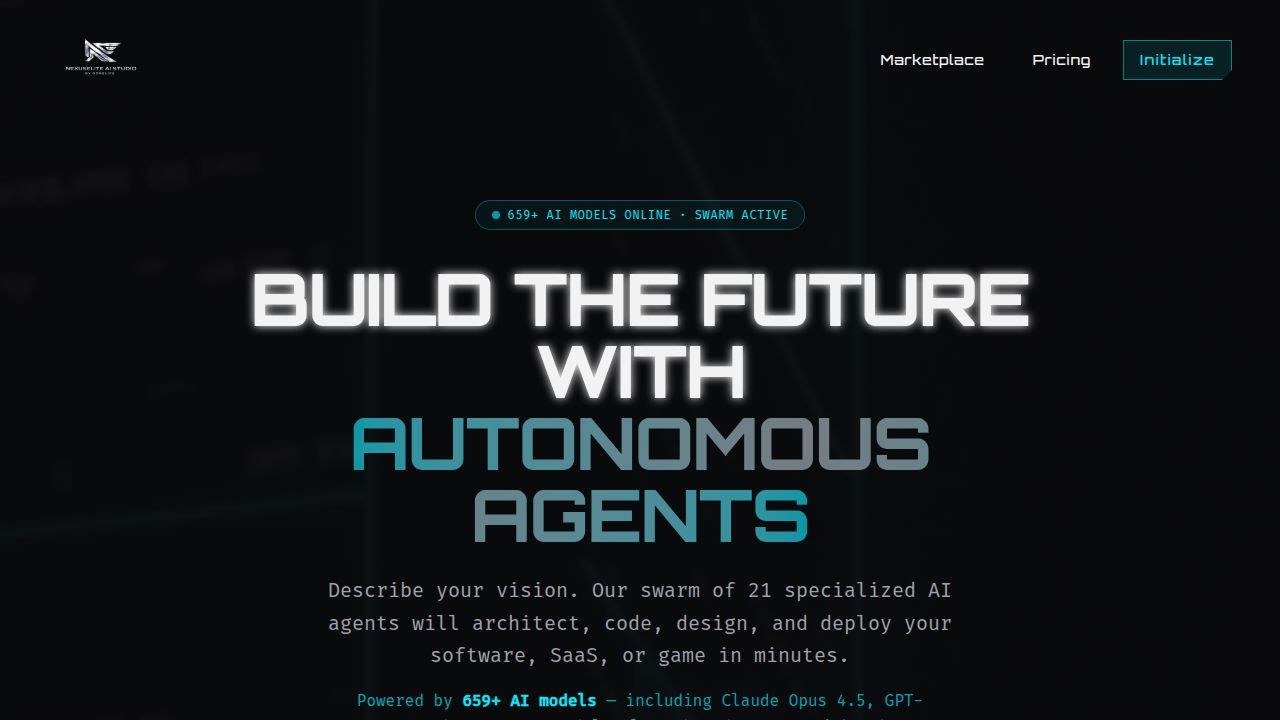
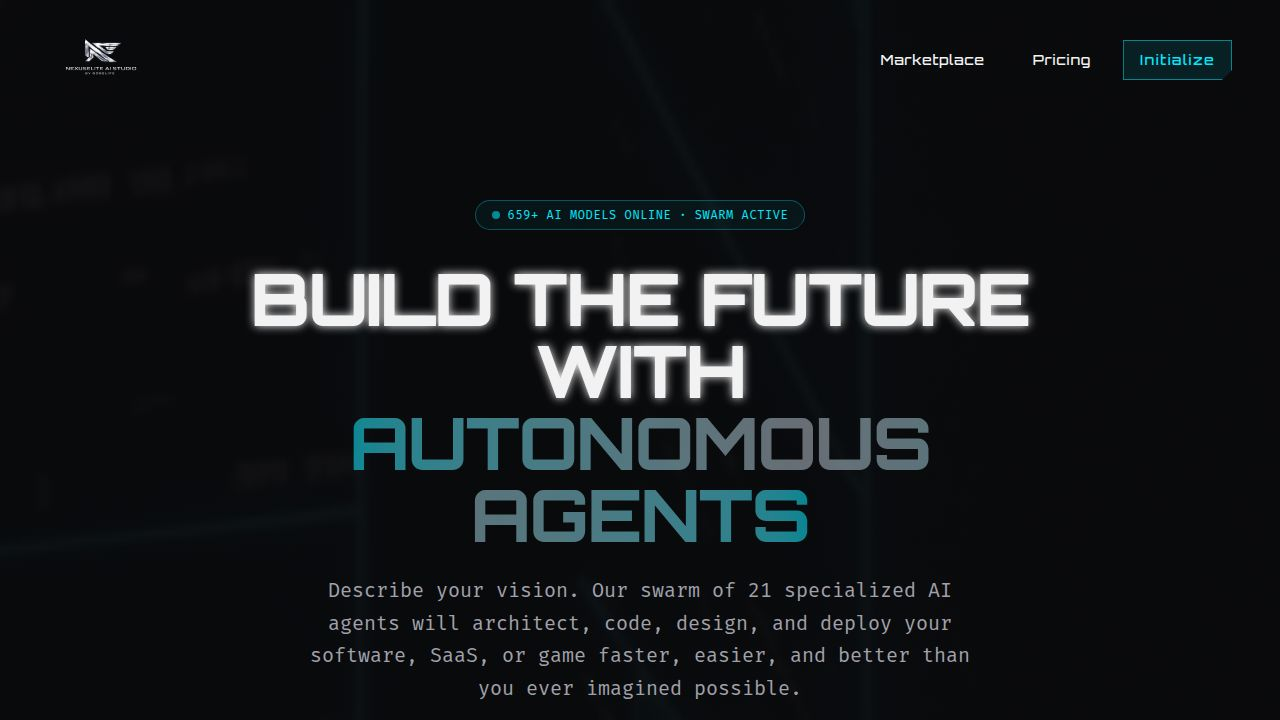
Task #26: Connect a real email provider so recovery emails actually send
## What was done
- Set RESEND_API_KEY secret (user provided) — the Resend API key is now configured
  and confirmed valid (API accepts it, returns 403 only due to domain verification)
- Set RECOVERY_EMAIL_FROM env var (shared): "Nexus Elite Studio <[email redacted]>"
  to make the sender address explicit rather than relying on the hard-coded fallback
- Added artifacts/api-server/src/lib/email-config-check.ts — a startup probe that
  calls Resend's /domains API to verify the sending domain is present and verified,
  logging a clear warning if not. Runs once at boot, never throws.
- Wired checkEmailConfig() into artifacts/api-server/src/index.ts startup sequence
  alongside the existing checkStripeConfig() call
- Added artifacts/api-server/scripts/test-recovery-email.ts — a runnable smoke-test
  script that exercises sendRecoveryEmail() end-to-end against the real Resend API:
    TEST_EMAIL=[email redacted] ./node_modules/.bin/tsx scripts/test-recovery-email.ts

## Current blocker (not a code issue)
The nexuselitestudio.com domain is not yet verified on Resend. Every send attempt
returns HTTP 403 "domain is not verified". This requires DNS record setup (SPF, DKIM,
DMARC TXT records) in the domain registrar — tracked as follow-up task #30.
The code path is fully wired; only the DNS step remains.

## No deviations from task scope
The task asked for RESEND_API_KEY + RECOVERY_EMAIL_FROM to be configured, and for
[…]

Changed region(s): [[0.25, 0.8861, 0.75, 1.0], [0.6875, 0.9472, 0.7188, 0.9778]]

diff --git a/artifacts/api-server/src/lib/email-config-check.ts b/artifacts/api-server/src/lib/email-config-check.ts
@@ -1,0 +1,71 @@
+/**
+ * Validate email (Resend) configuration at startup.
+ *
+ * Catches the most common failure modes before any recovery email is
+ * actually needed:
+ *   1. RESEND_API_KEY missing — emails silently log to stdout only.
+ *   2. RECOVERY_EMAIL_FROM missing — falls back to hard-coded address.
+ *   3. Domain not verified on Resend — API returns 403.
+ *
+ * Logs only; never throws. A misconfigured email provider must not
+ * prevent the API server from serving non-email traffic.
+ */
+export async function checkEmailConfig(): Promise<void> {
+  const apiKey = process.env.RESEND_API_KEY;
+  const fromAddr = process.env.RECOVERY_EMAIL_FROM;
+
+  if (!apiKey) {
+    console.warn(
+      '[email-config] RESEND_API_KEY is not set — recovery emails will only be ' +
+      'logged to stdout. Set the secret to enable real email delivery.',
+    );
+    return;
+  }
+  console.log('[email-config] RESEND_API_KEY is configured');
+
+  if (!fromAddr) {
+    console.warn(
+      '[email-config] RECOVERY_EMAIL_FROM is not set — falling back to ' +
+      'hard-coded "[email redacted]". Set RECOVERY_EMAIL_FROM to ' +
+      'override (must be on a Resend-verified domain).',
+    );
+  } else {
+    console.log(`[email-config] RECOVERY_EMAIL_FROM = ${fromAddr}`);
+  }
+
+  // Probe the Resend API to catch domain-not-verified errors early.
+  // We use /domains (a read-only list endpoint) rather than /emails to
+  // avoid sending a real email on every server boot.
+  try {
+    const resp = await fetch('https://api.resend.com/domains', {
+      headers: { authorization: `Bearer ${apiKey}` },
+    });
+    if (resp.ok) {
+      const data = await resp.json() as { data?: Array<{ name: string; status: string }> };
+      const domains = data.data ?? [];
+      const effectiveFrom = fromAddr ?? '[email redacted]';
+      const domainFromAddr = effectiveFrom.replace(/^.*@/, '').replace(/\s*>.*$/, '').trim();
+      const matched = domains.find(d => d.name === domainFromAddr);
+      if (!matched) {
+        console.warn(
+          `[email-config] Domain "${domainFromAddr}" is NOT listed in your Resend account. ` +
+          'Add and verify it at https://resend.com/domains — until then all recovery ' +
+          'emails will fail with a 403 error.',
+        );
+      } else if (matched.status !== 'verified') {
+        console.warn(
+          `[email-config] Domain "${domainFromAddr}" exists in Resend but status = "${matched.status}". ` +
+          'Complete DNS verification at https://resend.com/domains — recovery emails ' +
+          'will fail until the domain is verified.',
+        );
+      } else {
+        console.log(`✓ email-config: domain "${domainFromAddr}" is verified on Resend`);
+      }
+    } else {
+      const body = await resp.text().catch(() => '');
+      console.warn(`[email-config] Resend /domains probe returned ${resp.status}: ${body}`);
+    }
+  } catch (err: any) {
+    console.warn('[email-config] Could not reach Resend API:', err?.message ?? err);
+  }
+}

diff --git a/artifacts/api-server/scripts/test-recovery-email.ts b/artifacts/api-server/scripts/test-recovery-email.ts
@@ -1,0 +1,33 @@
+/**
+ * Quick smoke-test: sends a recovery email via Resend to verify the
+ * RESEND_API_KEY and RECOVERY_EMAIL_FROM env vars are working.
+ *
+ * Usage:
+ *   TEST_EMAIL=[email redacted] tsx scripts/test-recovery-email.ts
+ */
+import { sendRecoveryEmail } from '../src/lib/recoveryEmail.js';
+
+const to = process.env.TEST_EMAIL;
+if (!to) {
+  console.error('Set TEST_EMAIL=[email redacted] before running this script.');
+  process.exit(1);
+}
+
+console.log(`Sending test recovery email to: ${to}`);
+console.log(`RESEND_API_KEY set: ${!!process.env.RESEND_API_KEY}`);
+console.log(`RECOVERY_EMAIL_FROM: ${process.env.RECOVERY_EMAIL_FROM ?? '(using default)'}`);
+
+try {
+  await sendRecoveryEmail({
+    to,
+    username: 'Test User',
+    planName: 'Pro',
+    checkoutUrl: 'https://nexuselitestudio.com',
+    promoActive: true,
+    discountPercent: 20,
+  });
+  console.log('✓ Recovery email sent successfully!');
+} catch (err: any) {
+  console.error('✗ Failed to send recovery email:', err.message ?? err);
+  process.exit(1);
+}

diff --git a/artifacts/api-server/src/index.ts b/artifacts/api-server/src/index.ts
@@ -5,6 +5,7 @@ import { projectsTable } from "@workspace/db/schema";
 import { eq } from "drizzle-orm";
 import { startRenderPoller } from "./lib/render-poller.js";
 import { checkStripeConfig } from "./lib/stripe-config-check.js";
+import { checkEmailConfig } from "./lib/email-config-check.js";
 
 /**
  * GLOBAL CRASH GUARDS.
@@ -156,5 +157,8 @@ app.listen(port, async () => {
   // configured price IDs exist in the same mode. Logs only; never throws.
   void checkStripeConfig().catch(err =>
     console.warn("[stripe-config] check failed:", err?.message ?? err),
+  );
+  void checkEmailConfig().catch(err =>
+    console.warn("[email-config] check failed:", err?.message ?? err),
   );
 });